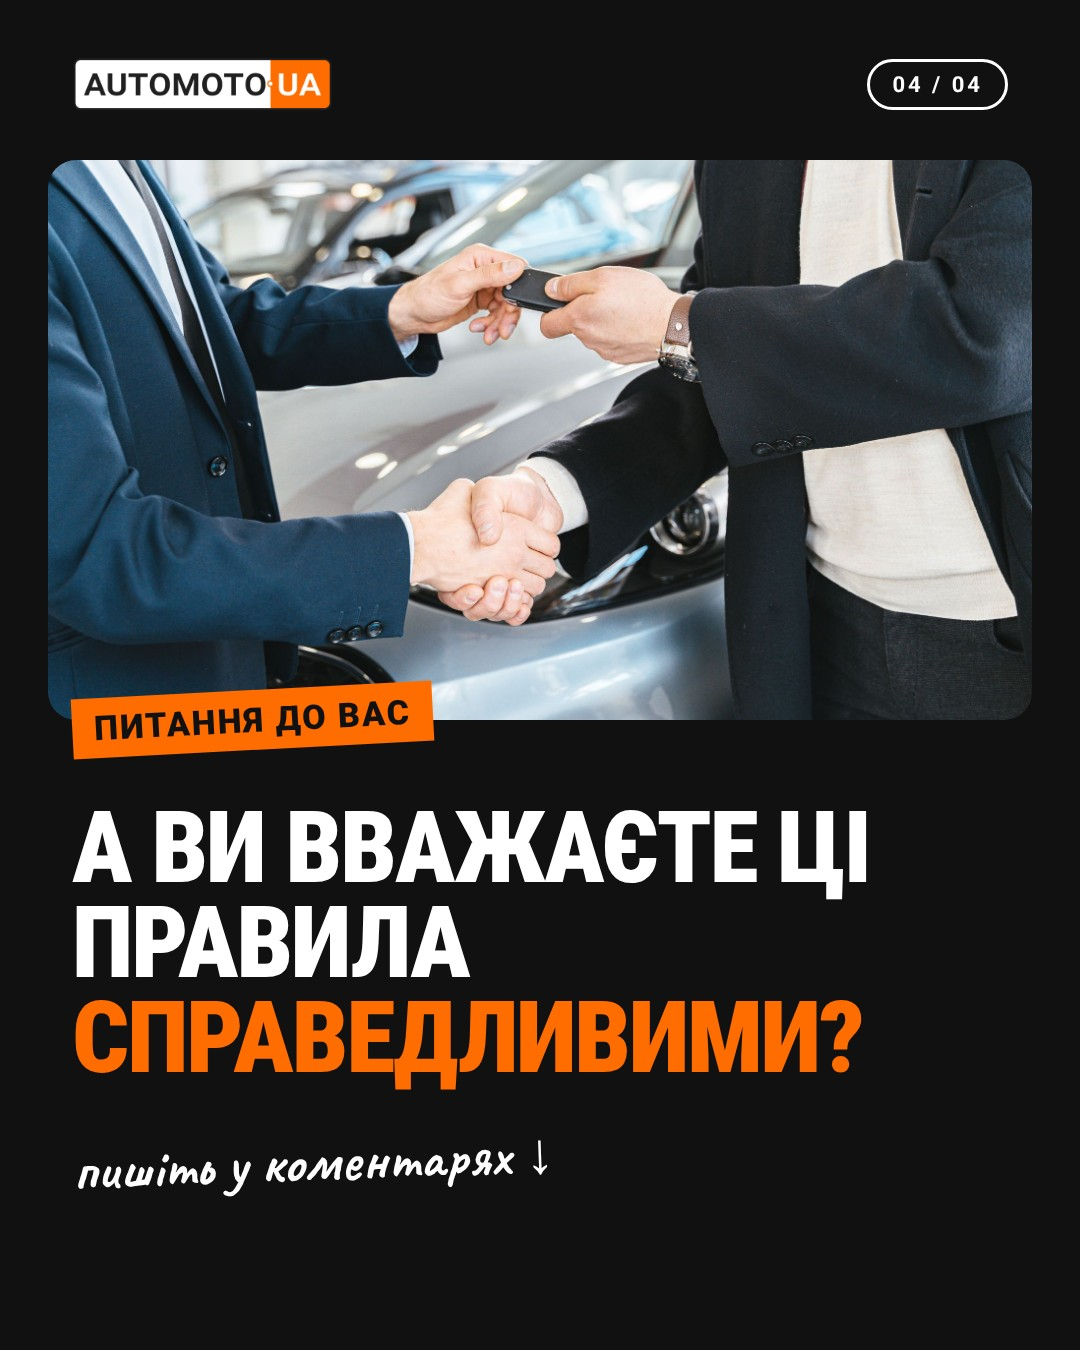
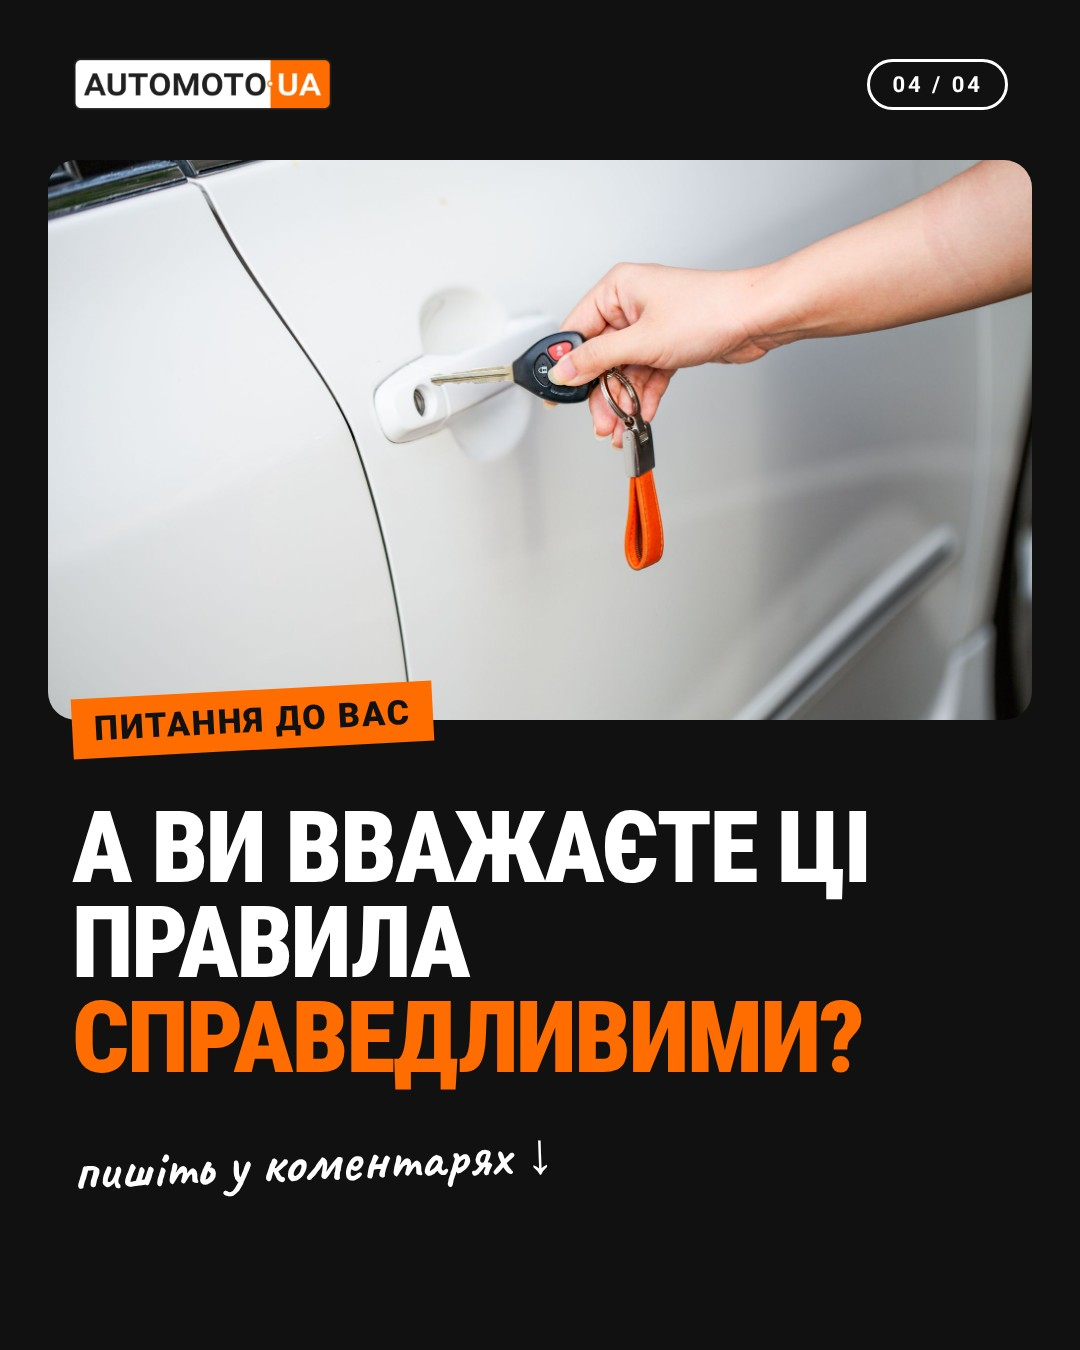
2026-11-14: tax post photos without dealership
Claude-Session: https://claude.ai/code/session_013xPx1adYj6YFEKA1LwtDyD

diff --git a/pipeline/days.py b/pipeline/days.py
@@ -16,7 +16,7 @@ cr('XPeng', ['xp_6.webp', 'xp_4.webp', 'xp_10.webp', 'xp_8.webp'])
 cr('Mercedes-Benz', ['eqe_e1.jpg'])
 
 N = {
- 'tax': {'cover': 'dark', 'photo': 'tax_4.jpg', 'photo2': 'tax_keys.jpg', 'photo3': 'tax_3.jpg', 'photo4': 'tax_2.jpg', 'pos2': '50% 40%', 'pos3': '50% 55%',
+ 'tax': {'cover': 'dark', 'photo': 'tax_keys.jpg', 'photo2': 'tax_5.jpg', 'photo3': 'tax_3.jpg', 'photo4': 'tax_6.jpg', 'pos2': '50% 50%', 'pos3': '50% 55%',
   'ua': dict(badgeC='', title1='Продати авто швидко', title2='стане дорожче',
              sub='З 2027 року — до 23% податку, якщо володіли авто менше ніж 183 дні',
              items=['Пільга лише за володіння понад 183 дні', 'Менше ніж 183 дні — 23% податку', 'Другий продаж за рік — 10%', 'Правила мають запрацювати з 1 січня 2027 року'],
